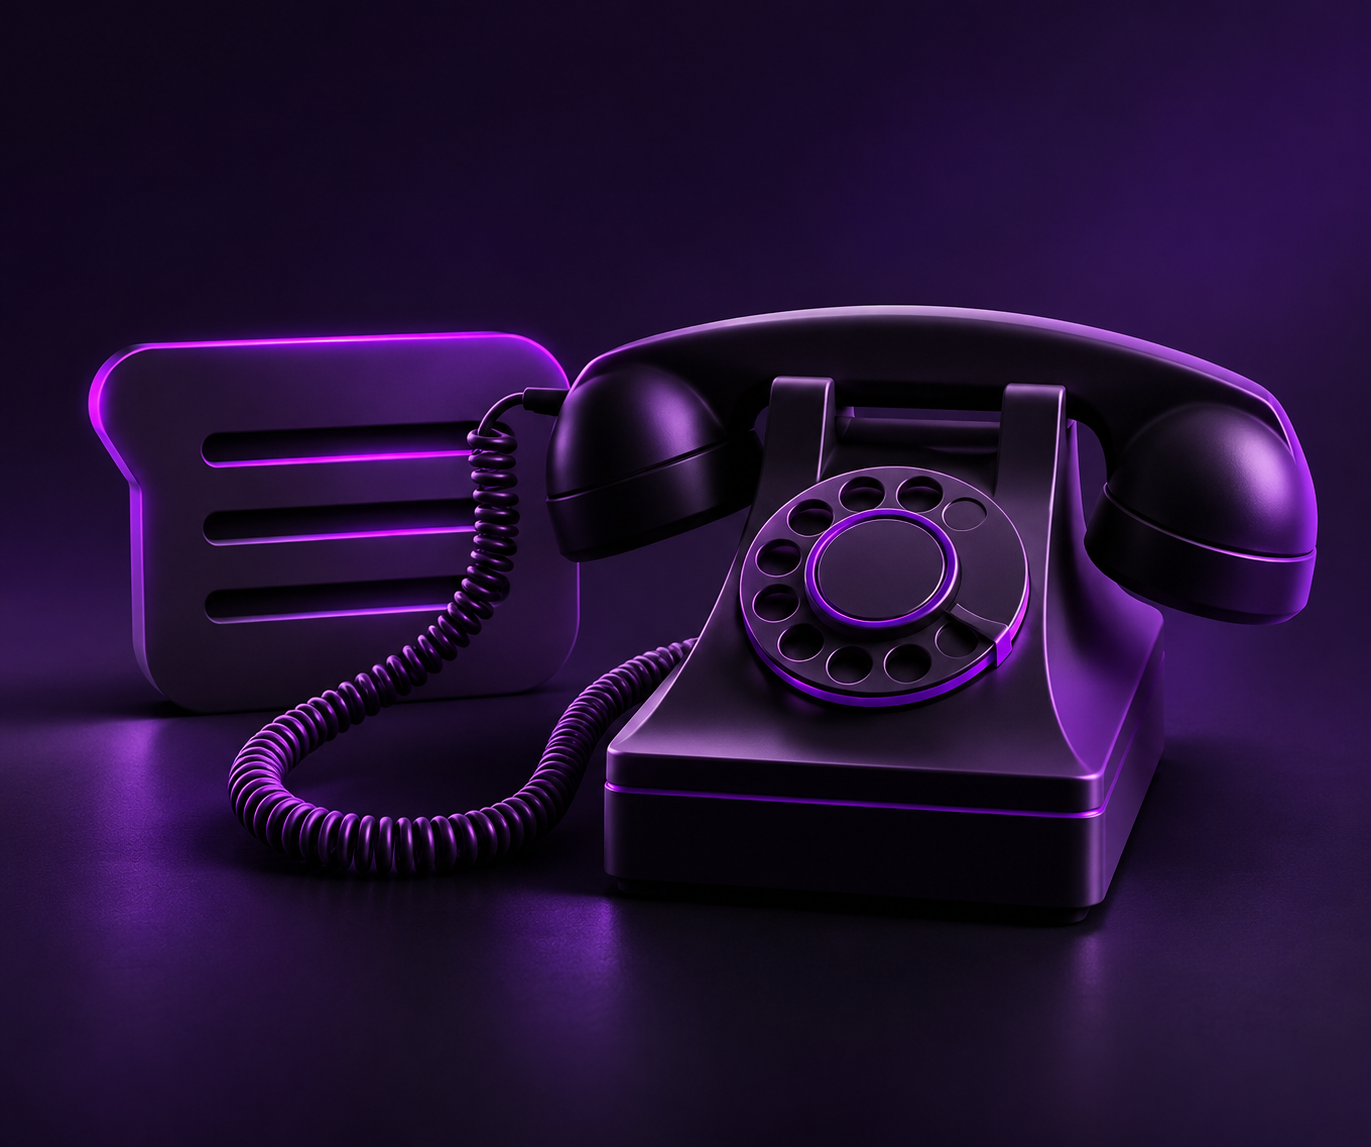
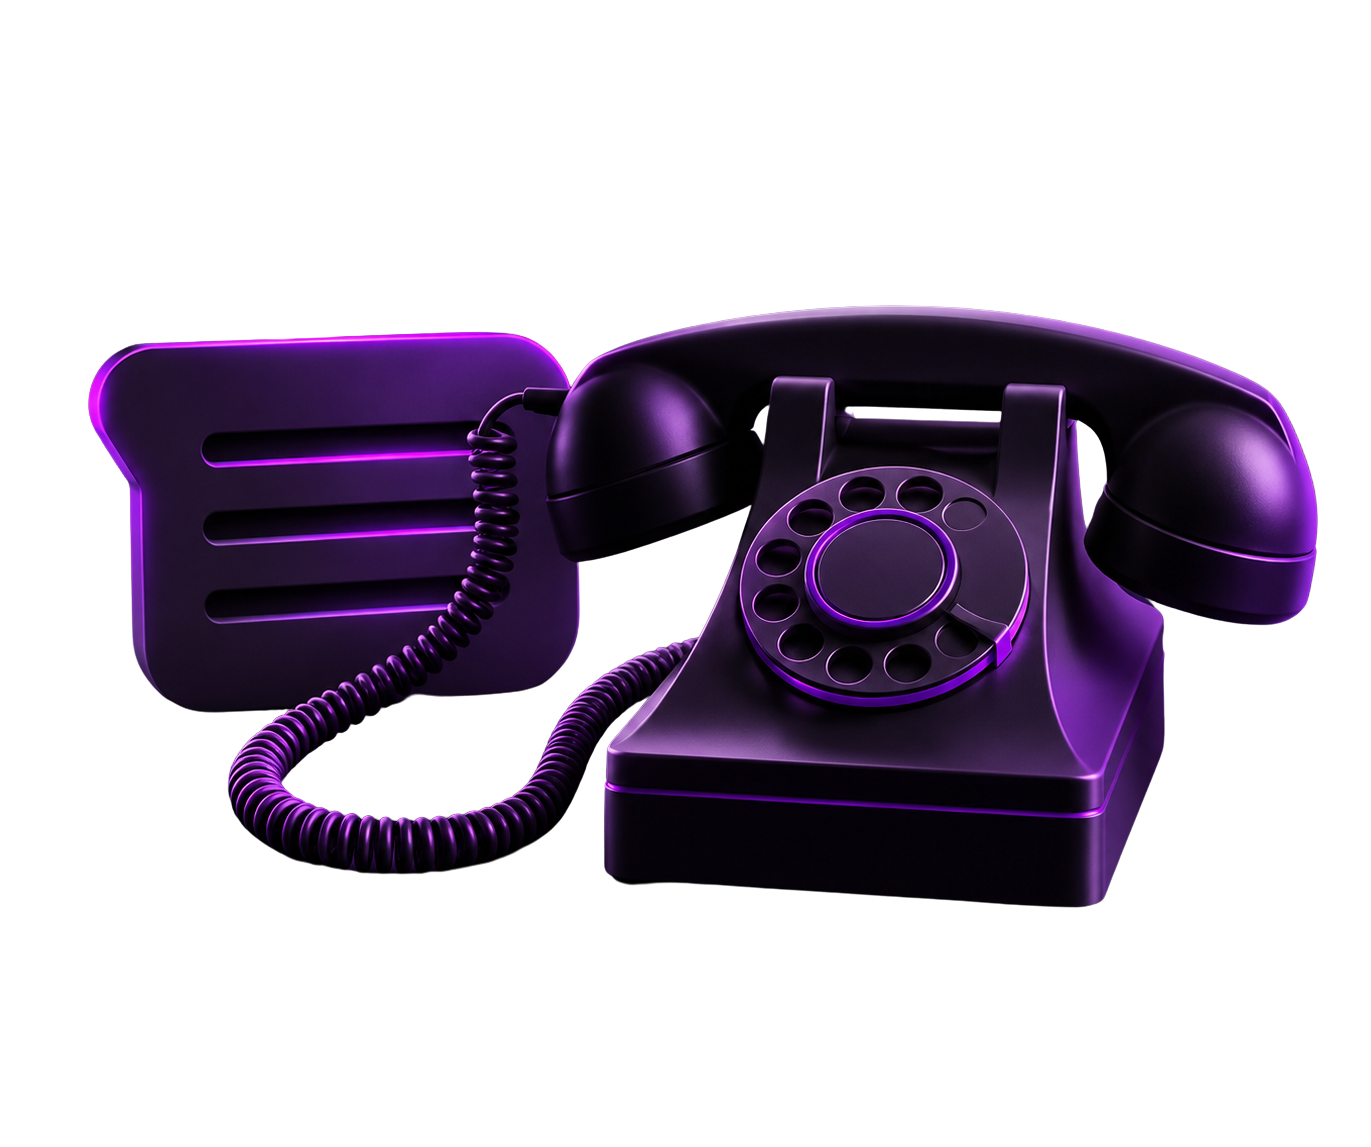
Enlarge 3D telephone centerpiece, unify background with website theme, and move social links to footer

diff --git a/src/pages/Contact.tsx b/src/pages/Contact.tsx
@@ -2,7 +2,7 @@ import { useEffect } from "react";
 import Header from "@/components/Header";
 import Footer from "@/components/Footer";
 import EnhancedContactForm from "@/components/EnhancedContactForm";
-import { MapPin, Mail, Phone, Youtube, Linkedin, Globe, Sparkles } from "lucide-react";
+import { MapPin, Phone, Mail } from "lucide-react";
 
 const Contact = () => {
   useEffect(() => {
@@ -10,92 +10,46 @@ const Contact = () => {
   }, []);
 
   return (
-    <div className="min-h-screen bg-[#0a0c14] text-foreground relative flex flex-col justify-between overflow-x-hidden">
-      {/* Dynamic ambient background matching the 3D purple telephone lighting */}
+    <div className="min-h-screen bg-background relative flex flex-col justify-between overflow-x-hidden">
+      {/* Signature The Lab Guys animated background matching website theme */}
       <div className="fixed inset-0 overflow-hidden pointer-events-none z-0">
-        <div className="absolute top-[20%] right-[10%] w-[650px] h-[650px] bg-gradient-to-br from-purple-700/25 via-indigo-600/20 to-blue-600/15 rounded-full blur-[180px] animate-pulse-slow" />
+        <div className="absolute top-[10%] left-[10%] w-[600px] h-[600px] bg-gradient-to-br from-purple-600 via-fuchsia-500 to-pink-500 rounded-full blur-[170px] opacity-25 animate-pulse-slow" />
         <div 
-          className="absolute bottom-[10%] left-[5%] w-[500px] h-[500px] bg-gradient-to-br from-blue-700/15 via-purple-600/10 to-transparent rounded-full blur-[160px] animate-pulse-slow" 
-          style={{ animationDelay: '3s' }} 
+          className="absolute bottom-[5%] right-[5%] w-[650px] h-[650px] bg-gradient-to-br from-cyan-500 via-blue-600 to-purple-600 rounded-full blur-[180px] opacity-20 animate-pulse-slow" 
+          style={{ animationDelay: '2s' }} 
         />
         <div 
-          className="absolute inset-0 opacity-[0.03]" 
+          className="absolute top-1/2 left-1/2 -translate-x-1/2 -translate-y-1/2 w-[550px] h-[550px] bg-gradient-to-br from-pink-500 to-orange-500 rounded-full blur-[200px] opacity-[0.10] animate-pulse-slow" 
+          style={{ animationDelay: '4s' }} 
+        />
+        
+        {/* Subtle grid mesh matching home page */}
+        <div 
+          className="absolute inset-0 opacity-[0.04]" 
           style={{
-            backgroundImage: `linear-gradient(rgba(147,51,234,0.4) 1px, transparent 1px), linear-gradient(90deg, rgba(147,51,234,0.4) 1px, transparent 1px)`,
-            backgroundSize: '80px 80px',
+            backgroundImage: `linear-gradient(rgba(168,85,247,0.6) 1px, transparent 1px), linear-gradient(90deg, rgba(168,85,247,0.6) 1px, transparent 1px)`,
+            backgroundSize: '70px 70px',
+            maskImage: 'radial-gradient(ellipse at center, black 20%, transparent 75%)',
+            WebkitMaskImage: 'radial-gradient(ellipse at center, black 20%, transparent 75%)',
           }} 
         />
       </div>
 
       <Header />
 
-      {/* Floating Left Social Bar (Matching the SS) */}
-      <aside 
-        aria-label="Social Links" 
-        className="hidden lg:flex fixed left-6 top-1/2 -translate-y-1/2 flex-col items-center gap-5 z-20 opacity-0 animate-fade-up"
-      >
-        <div className="w-px h-12 bg-gradient-to-b from-transparent to-white/20" />
-        
-        {/* Twitter / X */}
-        <a 
-          href="https://x.com" 
-          target="_blank" 
-          rel="noopener noreferrer" 
-          aria-label="Twitter / X"
-          className="w-8 h-8 rounded-full glass border border-white/10 flex items-center justify-center text-muted-foreground hover:text-blue-400 hover:border-blue-500/40 hover:scale-110 transition-all group"
-        >
-          <svg className="w-3.5 h-3.5" viewBox="0 0 24 24" fill="currentColor">
-            <path d="M18.244 2.25h3.308l-7.227 8.26 8.502 11.24H16.17l-5.214-6.817L4.99 21.75H1.68l7.73-8.835L1.254 2.25H8.08l4.713 6.231zm-1.161 17.52h1.833L7.084 4.126H5.117z" />
-          </svg>
-        </a>
-
-        {/* Google / Mail */}
-        <a 
-          href="mailto:contact@thelabguys.com" 
-          aria-label="Email"
-          className="w-8 h-8 rounded-full glass border border-white/10 flex items-center justify-center text-muted-foreground hover:text-blue-400 hover:border-blue-500/40 hover:scale-110 transition-all group"
-        >
-          <Mail className="w-3.5 h-3.5" />
-        </a>
-
-        {/* YouTube */}
-        <a 
-          href="https://youtube.com" 
-          target="_blank" 
-          rel="noopener noreferrer" 
-          aria-label="YouTube"
-          className="w-8 h-8 rounded-full glass border border-white/10 flex items-center justify-center text-muted-foreground hover:text-red-400 hover:border-red-500/40 hover:scale-110 transition-all group"
-        >
-          <Youtube className="w-3.5 h-3.5" />
-        </a>
-
-        {/* LinkedIn */}
-        <a 
-          href="https://linkedin.com" 
-          target="_blank" 
-          rel="noopener noreferrer" 
-          aria-label="LinkedIn"
-          className="w-8 h-8 rounded-full glass border border-white/10 flex items-center justify-center text-muted-foreground hover:text-blue-400 hover:border-blue-500/40 hover:scale-110 transition-all group"
-        >
-          <Linkedin className="w-3.5 h-3.5" />
-        </a>
-
-        <div className="w-px h-12 bg-gradient-to-t from-transparent to-white/20" />
-      </aside>
-
       {/* Main Contact Section */}
-      <main className="flex-1 relative z-10 pt-28 pb-16 lg:pt-36 lg:pb-24 px-4 sm:px-6 lg:px-12">
+      <main className="flex-1 relative z-10 pt-28 pb-16 lg:pt-36 lg:pb-24 px-4 sm:px-6 lg:px-12 flex items-center">
         <div className="container mx-auto max-w-7xl">
-          <div className="grid grid-cols-1 lg:grid-cols-12 gap-10 lg:gap-8 items-center">
+          <div className="grid grid-cols-1 lg:grid-cols-12 gap-8 lg:gap-12 items-center">
             
-            {/* Left Column: Contact Us & Form */}
-            <div className="lg:col-span-5 lg:pl-6 z-10 opacity-0 animate-fade-up">
-              {/* Main Heading */}
+            {/* Left Column: CONTACT US & Form (Matching Template SS) */}
+            <div className="lg:col-span-5 z-10 opacity-0 animate-fade-up">
+              {/* Heading */}
               <h1 className="font-display text-4xl sm:text-5xl lg:text-6xl font-black uppercase tracking-wider text-white mb-2">
                 CONTACT US
               </h1>
 
-              {/* Glowing Drop a Message subtitle */}
+              {/* Glowing DROP A MESSAGE subtitle accent */}
               <div className="inline-block mb-8">
                 <span className="text-xs sm:text-sm uppercase tracking-widest font-semibold text-blue-400 drop-shadow-[0_0_8px_rgba(59,130,246,0.6)]">
                   DROP A MESSAGE
@@ -109,35 +63,30 @@ const Contact = () => {
               </div>
             </div>
 
-            {/* Right Column: 3D Telephone Render & Location Card */}
-            <div className="lg:col-span-7 flex flex-col items-center justify-center relative opacity-0 animate-fade-up stagger-2">
+            {/* Right Column: Big 3D Telephone Visual (Matching Template SS) */}
+            <div className="lg:col-span-7 flex flex-col items-center lg:items-end justify-center relative opacity-0 animate-fade-up stagger-2">
               
-              {/* 3D Telephone Visual Container */}
-              <div className="relative w-full max-w-[680px] flex items-center justify-center group">
-                {/* Ambient spotlight behind telephone */}
-                <div className="absolute top-1/2 left-1/2 -translate-x-1/2 -translate-y-1/2 w-4/5 h-4/5 bg-gradient-to-br from-purple-600/35 via-indigo-600/25 to-blue-600/10 rounded-full blur-[120px] pointer-events-none -z-10" />
+              {/* Massive 3D Telephone Visual Container */}
+              <div className="relative w-full flex items-center justify-center lg:justify-end">
+                {/* Ambient purple/blue spotlight aura behind phone */}
+                <div className="absolute top-1/2 left-1/2 -translate-x-1/2 -translate-y-1/2 w-4/5 h-4/5 bg-gradient-to-br from-purple-600/30 via-indigo-600/20 to-blue-600/15 rounded-full blur-[130px] pointer-events-none -z-10" />
 
-                {/* 3D Telephone Image */}
+                {/* Big 3D Telephone Render */}
                 <img
                   src="/phone-contact.png"
                   onError={(e) => {
-                    // Fallback to original filename with spaces if needed
                     const target = e.currentTarget;
-                    if (!target.src.includes("Phone%20Contact%20page")) {
-                      target.src = "/Phone Contact page .png";
+                    if (!target.src.includes("Phone%20Contact")) {
+                      target.src = "/Phone Contact .png";
                     }
                   }}
                   alt="The Lab Guys 3D Telephone"
-                  className="w-full h-auto max-h-[580px] object-contain drop-shadow-[0_25px_60px_rgba(147,51,234,0.4)] select-none pointer-events-none transition-transform duration-700 ease-out group-hover:scale-[1.02]"
-                  style={{
-                    maskImage: 'radial-gradient(ellipse at 50% 50%, black 72%, transparent 98%)',
-                    WebkitMaskImage: 'radial-gradient(ellipse at 50% 50%, black 72%, transparent 98%)',
-                  }}
+                  className="w-full max-w-[650px] sm:max-w-[750px] lg:max-w-[900px] xl:max-w-[980px] h-auto object-contain drop-shadow-[0_25px_60px_rgba(147,51,234,0.4)] select-none pointer-events-none transition-transform duration-700 ease-out hover:scale-[1.02]"
                 />
               </div>
 
-              {/* Bottom Right Location & Contact Info (Matching SS) */}
-              <div className="w-full flex justify-end mt-4 sm:mt-6 pr-2 lg:pr-8">
+              {/* Bottom Right Location & Contact Card (Matching Template SS) */}
+              <div className="w-full flex justify-end mt-4 sm:mt-6 pr-2 lg:pr-4">
                 <div className="flex items-start gap-3 glass p-4 sm:p-5 rounded-2xl border border-white/10 shadow-2xl backdrop-blur-xl max-w-xs transition-all hover:border-purple-500/30">
                   <div className="w-9 h-9 rounded-xl bg-blue-500/15 border border-blue-500/30 flex items-center justify-center shrink-0 text-blue-400 mt-0.5 shadow-[0_0_15px_rgba(59,130,246,0.3)]">
                     <MapPin className="w-4 h-4" />

diff --git a/src/components/Footer.tsx b/src/components/Footer.tsx
@@ -1,6 +1,6 @@
 import { forwardRef } from "react";
 import { Link } from "react-router-dom";
-import { Sparkles, Instagram, Facebook, Twitter } from "lucide-react";
+import { Sparkles, Instagram, Facebook, Twitter, Youtube, Linkedin, Mail } from "lucide-react";
 
 const Footer = forwardRef<HTMLElement>((_, ref) => {
   return (
@@ -22,15 +22,24 @@ const Footer = forwardRef<HTMLElement>((_, ref) => {
           </div>
 
           <div className="flex flex-col items-center md:items-end gap-4">
-            <div className="flex items-center gap-4">
-              <a href="https://www.instagram.com/thelabguysofficial/" target="_blank" rel="noopener noreferrer" className="w-9 h-9 rounded-full bg-white/5 border border-white/10 flex items-center justify-center text-muted-foreground hover:text-white hover:bg-gradient-to-br hover:from-purple-500 hover:to-pink-500 transition-all duration-300 hover:shadow-glow-purple group/social">
+            <div className="flex items-center gap-3 sm:gap-4 flex-wrap justify-center">
+              <a href="https://www.instagram.com/thelabguysofficial/" target="_blank" rel="noopener noreferrer" aria-label="Instagram" className="w-9 h-9 rounded-full bg-white/5 border border-white/10 flex items-center justify-center text-muted-foreground hover:text-white hover:bg-gradient-to-br hover:from-purple-500 hover:to-pink-500 transition-all duration-300 hover:shadow-glow-purple group/social">
                 <Instagram className="w-4 h-4 transition-transform duration-300 group-hover/social:scale-110" />
               </a>
-              <a href="https://www.facebook.com/profile.php?id=61594154595588" target="_blank" rel="noopener noreferrer" className="w-9 h-9 rounded-full bg-white/5 border border-white/10 flex items-center justify-center text-muted-foreground hover:text-white hover:bg-gradient-to-br hover:from-purple-500 hover:to-pink-500 transition-all duration-300 hover:shadow-glow-purple group/social">
+              <a href="https://www.facebook.com/profile.php?id=61594154595588" target="_blank" rel="noopener noreferrer" aria-label="Facebook" className="w-9 h-9 rounded-full bg-white/5 border border-white/10 flex items-center justify-center text-muted-foreground hover:text-white hover:bg-gradient-to-br hover:from-purple-500 hover:to-pink-500 transition-all duration-300 hover:shadow-glow-purple group/social">
                 <Facebook className="w-4 h-4 transition-transform duration-300 group-hover/social:scale-110" />
               </a>
-              <a href="https://x.com/thelabguysofc" target="_blank" rel="noopener noreferrer" className="w-9 h-9 rounded-full bg-white/5 border border-white/10 flex items-center justify-center text-muted-foreground hover:text-white hover:bg-gradient-to-br hover:from-purple-500 hover:to-pink-500 transition-all duration-300 hover:shadow-glow-purple group/social">
+              <a href="https://x.com/thelabguysofc" target="_blank" rel="noopener noreferrer" aria-label="Twitter / X" className="w-9 h-9 rounded-full bg-white/5 border border-white/10 flex items-center justify-center text-muted-foreground hover:text-white hover:bg-gradient-to-br hover:from-purple-500 hover:to-pink-500 transition-all duration-300 hover:shadow-glow-purple group/social">
                 <Twitter className="w-4 h-4 transition-transform duration-300 group-hover/social:scale-110" />
+              </a>
+              <a href="https://youtube.com" target="_blank" rel="noopener noreferrer" aria-label="YouTube" className="w-9 h-9 rounded-full bg-white/5 border border-white/10 flex items-center justify-center text-muted-foreground hover:text-white hover:bg-gradient-to-br hover:from-red-500 hover:to-pink-500 transition-all duration-300 hover:shadow-glow-purple group/social">
+                <Youtube className="w-4 h-4 transition-transform duration-300 group-hover/social:scale-110" />
+              </a>
+              <a href="https://linkedin.com" target="_blank" rel="noopener noreferrer" aria-label="LinkedIn" className="w-9 h-9 rounded-full bg-white/5 border border-white/10 flex items-center justify-center text-muted-foreground hover:text-white hover:bg-gradient-to-br hover:from-blue-600 hover:to-cyan-500 transition-all duration-300 hover:shadow-glow-purple group/social">
+                <Linkedin className="w-4 h-4 transition-transform duration-300 group-hover/social:scale-110" />
+              </a>
+              <a href="mailto:contact@thelabguys.com" aria-label="Email" className="w-9 h-9 rounded-full bg-white/5 border border-white/10 flex items-center justify-center text-muted-foreground hover:text-white hover:bg-gradient-to-br hover:from-purple-600 hover:to-indigo-500 transition-all duration-300 hover:shadow-glow-purple group/social">
+                <Mail className="w-4 h-4 transition-transform duration-300 group-hover/social:scale-110" />
               </a>
             </div>
             <div className="flex items-center gap-6 text-sm text-muted-foreground">
